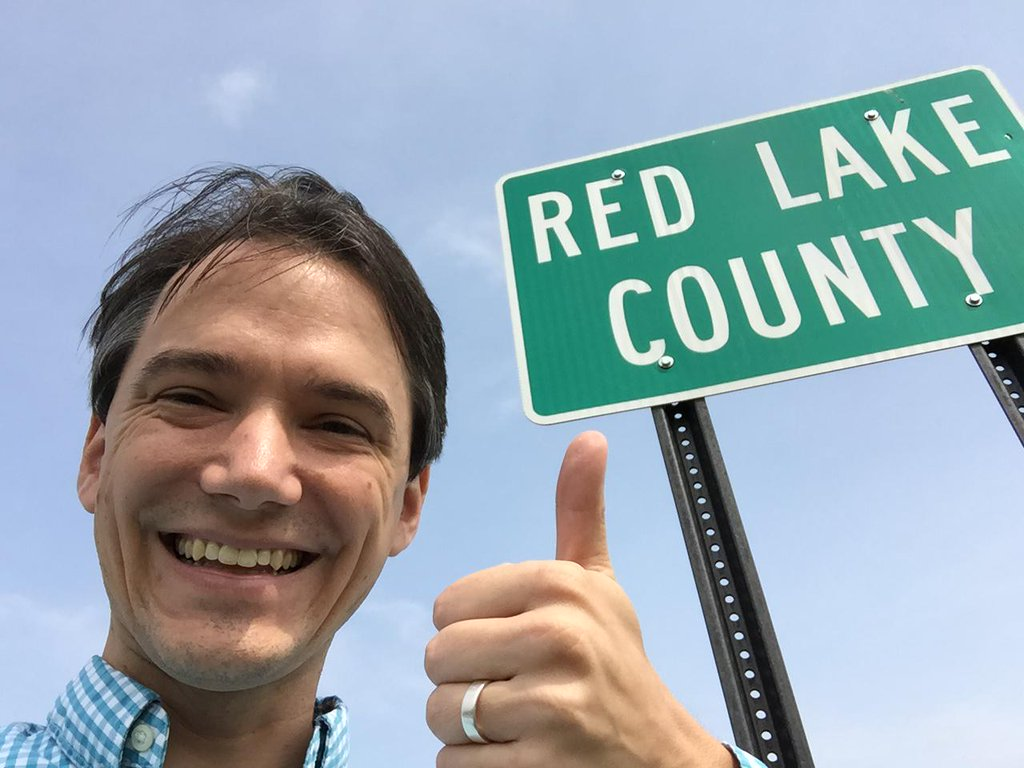
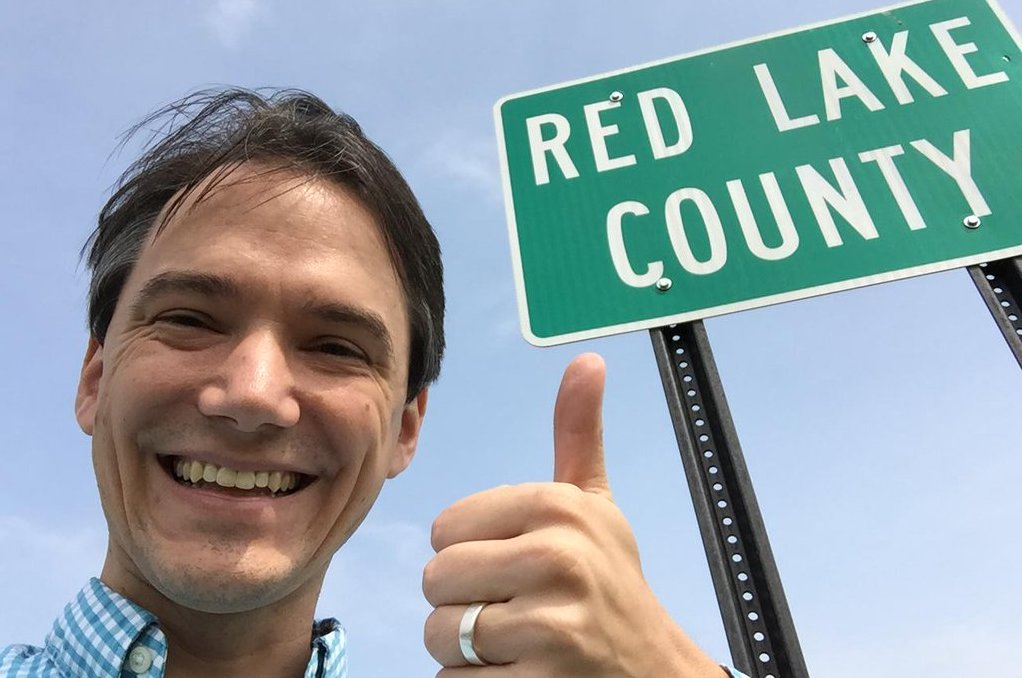
more style changes

diff --git a/styles/newspaper.css b/styles/newspaper.css
@@ -60,7 +60,24 @@ figure.floater {
   overflow: hidden;
 }
 figure.floater img {
-  max-height: 350px;
+  max-height: 37vw;
+}
+figure.floater img.long {
+  max-height: clamp(min(23vw, 1000px), min(37vw, 1000px), 330px)
+}
+
+@media screen and (max-width: 600px) {
+  figure.floater {
+    width: 100%;
+  }
+  figure.floater img,
+  figure.floater img.long{
+    width: 100%;
+    max-height: clamp(100vw, 100vw, 100vw) !important;
+  }
+  /* figure.floater img {
+    max-height: clamp(100vw, auto, 100vw);
+  } */
 }
 
 figcaption {

diff --git a/index.html b/index.html
@@ -189,7 +189,7 @@
       </p>
 
       <figure class="floater">
-        <img src="./images/redlake-sign.jpg" />
+        <img class="long" src="./images/redlake-sign.jpg" />
         <figcaption>Chris's thumb looks a lot like an index finger.</figcaption>
       </figure>
 
@@ -236,8 +236,7 @@
       <div id="map" style="display: grid">
         <svg
           id="svg"
-          width="960"
-          height="600"
+          viewBox="0 0 960 600"
           stroke-linejoin="round"
           stroke-linecap="round"
         >

diff --git a/js/vis5.js b/js/vis5.js
@@ -52,8 +52,6 @@ metrics.forEach((metric) => {
   var svg5 = d3
     .select("#my_dataviz")
     .append("svg")
-    // .attr("width", width + margin.left + margin.right)
-    // .attr("height", height + margin.top + margin.bottom)
     .attr("viewBox", `0 0 ${width + margin.left + margin.right} ${height + margin.top + margin.bottom}`)
     .append("g")
     .attr("transform", `translate(${margin.left},${margin.top})`);
